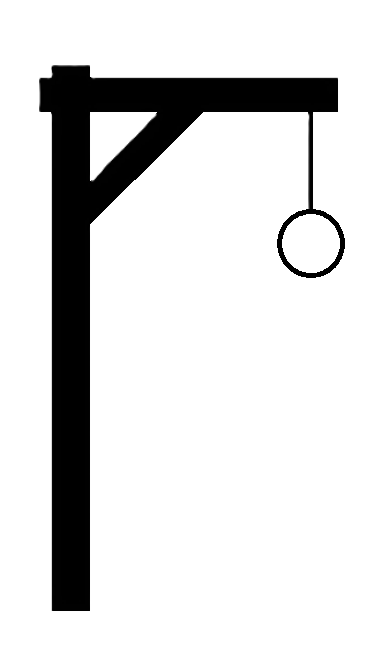
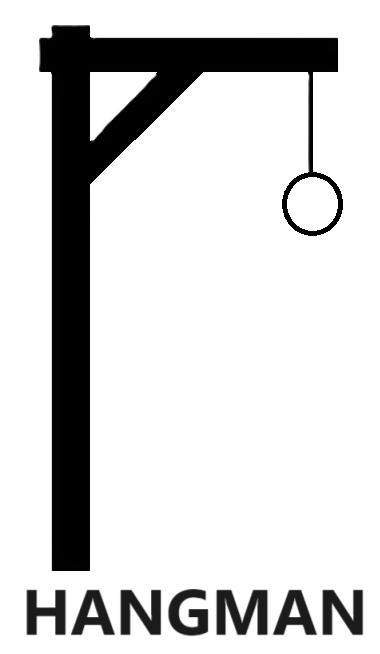
feat:add game name

Changed region(s): [[0.0868, 0.0306, 0.8974, 0.3364], [0.0579, 0.8563, 0.9553, 0.9786], [0.7237, 0.2446, 0.9263, 0.4281]]

diff --git a/style.css b/style.css
@@ -67,6 +67,7 @@
     border: 2px solid rgba(189, 0, 189, 0.808);
 }
 
+
 .key-button.typed {
     background-color: rgba(29, 1, 121, 0.818);
 }
@@ -78,6 +79,15 @@
     margin: 0.3rem;
     padding: 1rem;
     border-radius: 0.5rem;
+}
+
+.key-button:hover,
+.close-button:hover {
+    cursor: pointer;
+}
+
+.key-button.typed:hover {
+    cursor:auto;
 }
 
 .symbol {
